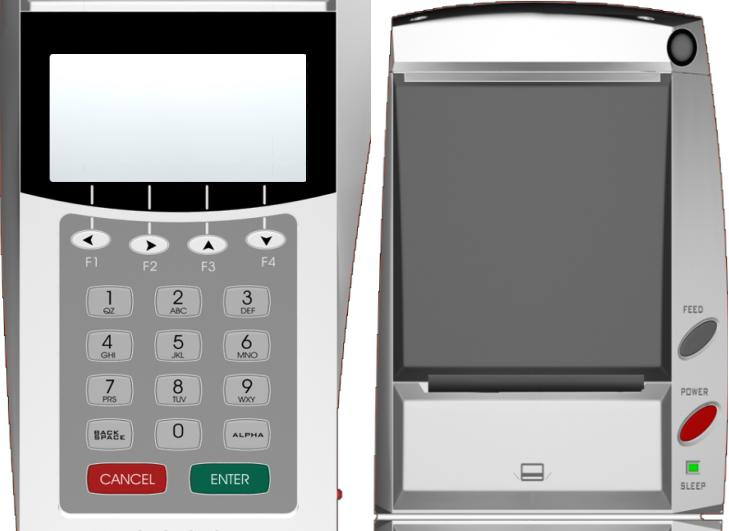
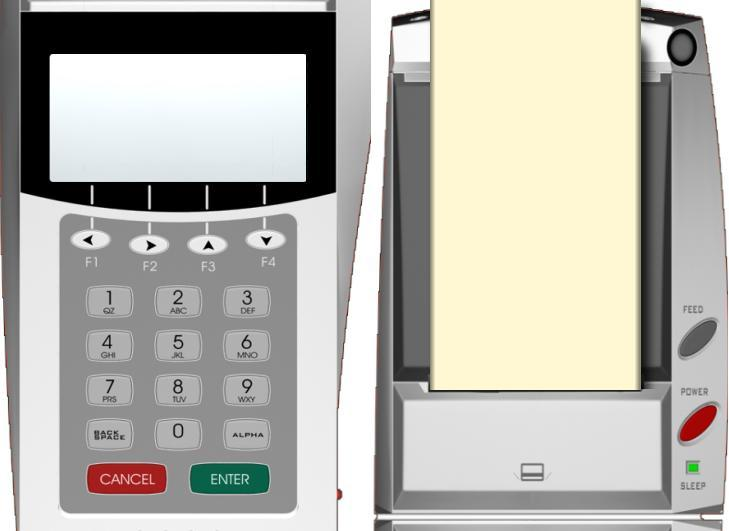
Added support to sdlfb for the Secondary Display Channel, and used this to emulate the MobileMate 2's printer

Changed region(s): [[0.5734, 0.0, 0.9053, 0.7533]]

diff --git a/pgserver/video/sdlfb.c b/pgserver/video/sdlfb.c
@@ -1,4 +1,4 @@
-/* $Id: sdlfb.c,v 1.24 2001/08/13 06:16:05 micahjd Exp $
+/* $Id: sdlfb.c,v 1.25 2001/09/09 18:17:24 micahjd Exp $
  *
  * sdlfb.c - This driver provides an interface between the linear VBLs
  *           and a framebuffer provided by the SDL graphics library.
@@ -29,15 +29,16 @@
  * 
  */
 
-#include <pgserver/common.h>
+#include <pgserver/common.h>      /* Needed for any pgserver file */
 
-#include <pgserver/video.h>
-#include <pgserver/input.h>
+#include <pgserver/video.h>       /* Always needed for a video driver! */
+#include <pgserver/render.h>      /* For data types like 'quad' */
+#include <pgserver/input.h>       /* For loading our corresponding input lib */
 
-#include <SDL.h>
+#include <SDL.h>                  /* This is the SDL video driver */
 
 #ifdef CONFIG_SDLSKIN
-#include <stdio.h>        /* File I/O for loading skin bitmap */
+#include <stdio.h>                /* File I/O for loading skin bitmap */
 #endif
 
 SDL_Surface *sdl_vidsurf;
@@ -45,12 +46,26 @@ SDL_Surface *sdl_vidsurf;
 int sdlfb_emucolors;
 #endif
 
+/* config data for skins */
 #ifdef CONFIG_SDLSKIN
 pgcolor sdlfb_tint;
 s16 sdlfb_display_x;
 s16 sdlfb_display_y;
 u16 sdlfb_simbits;
 u16 sdlfb_scale;
+#endif
+
+#ifdef CONFIG_SDLSDC
+/* config data for secondary display channel */
+pgcolor sdlsdc_fg,sdlsdc_bg;
+handle sdlsdc_font;
+s16 sdlsdc_x,sdlsdc_y;
+s16 sdlsdc_w,sdlsdc_h;
+/* variables */
+hwrcolor sdlsdc_hfg,sdlsdc_hbg;
+s16 sdlsdc_cx,sdlsdc_cy;
+struct stdbitmap sdlsdc_bits;
+
 #endif
 
 #if defined(CONFIG_SDLEMU_BLIT) || defined(CONFIG_SDLSKIN)
@@ -72,6 +87,7 @@ hwrcolor sdlfb_tint_pgtohwr(pgcolor c);
 pgcolor sdlfb_color_tint(pgcolor c);
 hwrcolor sdlfb_tint_hwrtopg(pgcolor c);
 pgcolor sdlfb_color_untint(pgcolor c);
+g_error sdlfb_sdc_char(char c);
 
 g_error sdlfb_init(void) {
   /* Avoid freeing a nonexistant backbuffer in close() */
@@ -122,12 +138,24 @@ g_error sdlfb_setmode(s16 xres,s16 yres,s16 bpp,u32 flags) {
   }
   sdlfb_simbits = get_param_int("video-sdlfb","simbits",0);
   sdlfb_scale = get_param_int("video-sdlfb","scale",1);
+  sdlfb_tint = strtol(get_param_str("video-sdlfb","tint","FFFFFF"),NULL,16);
+#endif
+#ifdef CONFIG_SDLSDC
+  sdlsdc_fg = strtol(get_param_str("video-sdlfb","sdc_fg","000000"),NULL,16);
+  sdlsdc_bg = strtol(get_param_str("video-sdlfb","sdc_bg","FFFFFF"),NULL,16);
+  sdlsdc_x  = get_param_int("video-sdlfb","sdc_x",0);
+  sdlsdc_y  = get_param_int("video-sdlfb","sdc_y",0);
+  sdlsdc_w  = get_param_int("video-sdlfb","sdc_w",0);
+  sdlsdc_h  = get_param_int("video-sdlfb","sdc_h",0);
+  /* We can't load the font yet because functions findfont() rely on
+   * haven't been initialized yet. Save that for later.
+   */
+#endif
 
 #ifdef CONFIG_SDLEMU_BLIT
    /* Make screen divisible by a byte */
   if (bpp && bpp<8)
      fbw &= ~((8/bpp)-1);
-#endif
 #endif
 
 #ifdef CONFIG_SDLEMU_BLIT
@@ -278,6 +306,15 @@ g_error sdlfb_setmode(s16 xres,s16 yres,s16 bpp,u32 flags) {
 	  vid->xres,vid->yres,bpp);
   SDL_WM_SetCaption(str,NULL);
 
+#ifdef CONFIG_SDLSDC
+  /* Fabricate a bitmap specifying the sdc area */
+  memcpy(&sdlsdc_bits,vid->display,sizeof(struct stdbitmap));
+  sdlsdc_bits.freebits = 0;
+  sdlsdc_bits.bits += bpp * sdlsdc_x / 8 + FB_BPL * sdlsdc_y;
+  sdlsdc_bits.w = sdlsdc_w;
+  sdlsdc_bits.h = sdlsdc_h;
+#endif
+
 #ifdef CONFIG_SDLSKIN
   /* Install the skin background */
   if (s = get_param_str("video-sdlfb","background",NULL)) {
@@ -311,11 +348,7 @@ g_error sdlfb_setmode(s16 xres,s16 yres,s16 bpp,u32 flags) {
   /* Offset vid->display to the specified position */
   sdlfb_display_x = get_param_int("video-sdlfb","display_x",0);
   sdlfb_display_y = get_param_int("video-sdlfb","display_y",0);
-  FB_MEM += bpp * sdlfb_display_x / 8;
-  FB_MEM += FB_BPL * sdlfb_display_y;
-
-  /* Load initial tint */
-  sdlfb_tint = strtol(get_param_str("video-sdlfb","tint","FFFFFF"),NULL,16);
+  FB_MEM += bpp * sdlfb_display_x / 8 + FB_BPL * sdlfb_display_y;
 
   /* tint and grayscale conversion */
   if (!sdlfb_emucolors) {
@@ -545,8 +578,95 @@ void sdlfb_message(u32 message, u32 param) {
     break;
 #endif
 
+#ifdef CONFIG_SDLSDC
+  case PGDM_SDC_CHAR:
+    sdlfb_sdc_char( (char) param );
+    break;
+#endif
+
   }
 }
+
+#ifdef CONFIG_SDLSDC
+g_error sdlfb_sdc_char(char c) {
+  g_error e;
+  struct fontdesc *fd;
+
+  /* Don't bother if the SDC hasn't been configured */
+  if (!(sdlsdc_w && sdlsdc_h))
+    return sucess;
+
+  /* If the font hasn't yet been allocated, set things up now */
+  if (!sdlsdc_font) {
+    e = findfont(&sdlsdc_font,-1,
+		 get_param_str("video-sdlfb","sdc_font_name",""),
+		 get_param_int("video-sdlfb","sdc_font_size",0),
+		 get_param_int("video-sdlfb","sdc_font_style",0));
+    errorcheck;
+
+    /* Convert colors to hwrcolor (ignore tint, simulated grays) */
+    sdlsdc_hfg = def_color_pgtohwr(sdlsdc_fg);
+    sdlsdc_hbg = def_color_pgtohwr(sdlsdc_bg);
+
+    /* Clear the background */
+    VID(rect) (&sdlsdc_bits, 0,0,sdlsdc_w,sdlsdc_h, sdlsdc_hbg, PG_LGOP_NONE);
+    SDL_UpdateRect(sdl_vidsurf,sdlsdc_x,sdlsdc_y,sdlsdc_w,sdlsdc_h);
+    
+    /* Look up the font */
+    e = rdhandle((void**) &fd, PG_TYPE_FONTDESC, -1, sdlsdc_font);
+    errorcheck;
+    
+    /* Set the initial cursor position */
+    sdlsdc_cx = 0;
+    sdlsdc_cy = sdlsdc_h - fd->font->ascent - fd->font->descent;
+  }
+  
+  /* Look up the font */
+  e = rdhandle((void**) &fd, PG_TYPE_FONTDESC, -1, sdlsdc_font);
+  errorcheck;
+
+  /* If we got an explicit newline or the line is full,
+   * scroll the display
+   */
+  if (c=='\n' || sdlsdc_cx+fd->font->w >= sdlsdc_w) {
+
+    /* Reset cursor */
+    sdlsdc_cx = 0;
+
+    /* Scroll */
+    VID(blit) (&sdlsdc_bits,0,0,sdlsdc_w,sdlsdc_h-fd->font->h,
+	       &sdlsdc_bits,0,fd->font->h,PG_LGOP_NONE);
+    VID(rect) (&sdlsdc_bits,0,sdlsdc_h-fd->font->h,
+	       sdlsdc_w,fd->font->h, sdlsdc_hbg, PG_LGOP_NONE);
+
+    /* Update the whole thing */
+    SDL_UpdateRect(sdl_vidsurf,sdlsdc_x,sdlsdc_y,sdlsdc_w,sdlsdc_h);
+  }
+  
+  /* Handle backspace for overstriking- this will only look right for
+   * fixed-width fonts */
+  if (c == '\b') {
+    sdlsdc_cx -= fd->font->w;
+    if (sdlsdc_cx < 0)
+      sdlsdc_cx = 0;
+  }
+
+  /* Plot a character */
+  if (c!='\n' && c!='\r' && c!='\b') {
+    outchar(&sdlsdc_bits,fd,&sdlsdc_cx,&sdlsdc_cy,sdlsdc_hfg,c,NULL,
+	    0,0,PG_LGOP_NONE,0);
+    
+    /* Update the screen */
+    SDL_UpdateRect(sdl_vidsurf,
+		   sdlsdc_x+sdlsdc_cx-fd->font->w,
+		   sdlsdc_y+sdlsdc_cy,
+		   fd->font->w,
+		   fd->font->ascent + fd->font->descent);
+  }
+
+  return sucess;
+}
+#endif
 
 g_error sdlfb_regfunc(struct vidlib *v) {
   v->init = &sdlfb_init;
@@ -558,6 +678,10 @@ g_error sdlfb_regfunc(struct vidlib *v) {
 }
 
 /* The End */
+
+
+
+
 
 
 

diff --git a/cli_c/include/picogui/constants.h b/cli_c/include/picogui/constants.h
@@ -1,4 +1,4 @@
-/* $Id: constants.h,v 1.78 2001/09/08 19:26:03 micahjd Exp $
+/* $Id: constants.h,v 1.79 2001/09/09 18:17:24 micahjd Exp $
  *
  * picogui/constants.h - various constants needed by client, server,
  *                       and application
@@ -734,6 +734,7 @@ typedef unsigned long pghandle;
 #define PGDM_BACKLIGHT        2   //!< Turn the backlight on/off
 #define PGDM_SOUNDFX          3   //!< Parameter is a PG_SND_* constant
 #define PGDM_POWER            4   //!< Enter the power mode, PG_POWER_*
+#define PGDM_SDC_CHAR         5   //!< Send a character to the secondary display channel
 
 #define PG_SND_KEYCLICK       1   //!< Short click
 #define PG_SND_BEEP           2   //!< Terminal beep

diff --git a/pgserver/include/picogui/constants.h b/pgserver/include/picogui/constants.h
@@ -1,4 +1,4 @@
-/* $Id: constants.h,v 1.84 2001/09/08 19:26:03 micahjd Exp $
+/* $Id: constants.h,v 1.85 2001/09/09 18:17:24 micahjd Exp $
  *
  * picogui/constants.h - various constants needed by client, server,
  *                       and application
@@ -734,6 +734,7 @@ typedef unsigned long pghandle;
 #define PGDM_BACKLIGHT        2   //!< Turn the backlight on/off
 #define PGDM_SOUNDFX          3   //!< Parameter is a PG_SND_* constant
 #define PGDM_POWER            4   //!< Enter the power mode, PG_POWER_*
+#define PGDM_SDC_CHAR         5   //!< Send a character to the secondary display channel
 
 #define PG_SND_KEYCLICK       1   //!< Short click
 #define PG_SND_BEEP           2   //!< Terminal beep

diff --git a/cli_c/include/picogui/network.h b/cli_c/include/picogui/network.h
@@ -1,4 +1,4 @@
-/* $Id: network.h,v 1.60 2001/09/07 01:18:36 micahjd Exp $
+/* $Id: network.h,v 1.61 2001/09/09 18:17:24 micahjd Exp $
  *
  * picogui/network.h - Structures and constants needed by the PicoGUI client
  *                     library, but not by the application

diff --git a/cli_c/include/picogui/canvas.h b/cli_c/include/picogui/canvas.h
@@ -1,4 +1,4 @@
-/* $Id: canvas.h,v 1.46 2001/09/06 23:42:09 micahjd Exp $
+/* $Id: canvas.h,v 1.47 2001/09/09 18:17:24 micahjd Exp $
  *
  * picogui/canvas.h - This defines the commands sent from the client to a
  *                    canvas widget (Via RQH_WRITETO)

diff --git a/cli_c/include/picogui/theme.h b/cli_c/include/picogui/theme.h
@@ -1,4 +1,4 @@
-/* $Id: theme.h,v 1.26 2001/09/06 23:42:09 micahjd Exp $
+/* $Id: theme.h,v 1.27 2001/09/09 18:17:24 micahjd Exp $
  * 
  * theme.h - Defines the theme file format, used by the server and by
  *           programs that read and write theme files

diff --git a/cli_c/include/picogui/pgkeys.h b/cli_c/include/picogui/pgkeys.h
@@ -1,4 +1,4 @@
-/* $Id: pgkeys.h,v 1.53 2001/09/06 23:42:09 micahjd Exp $
+/* $Id: pgkeys.h,v 1.54 2001/09/09 18:17:24 micahjd Exp $
  *
  * pgkeys.h - Constants for the keyboard keys and modifiers
  *
